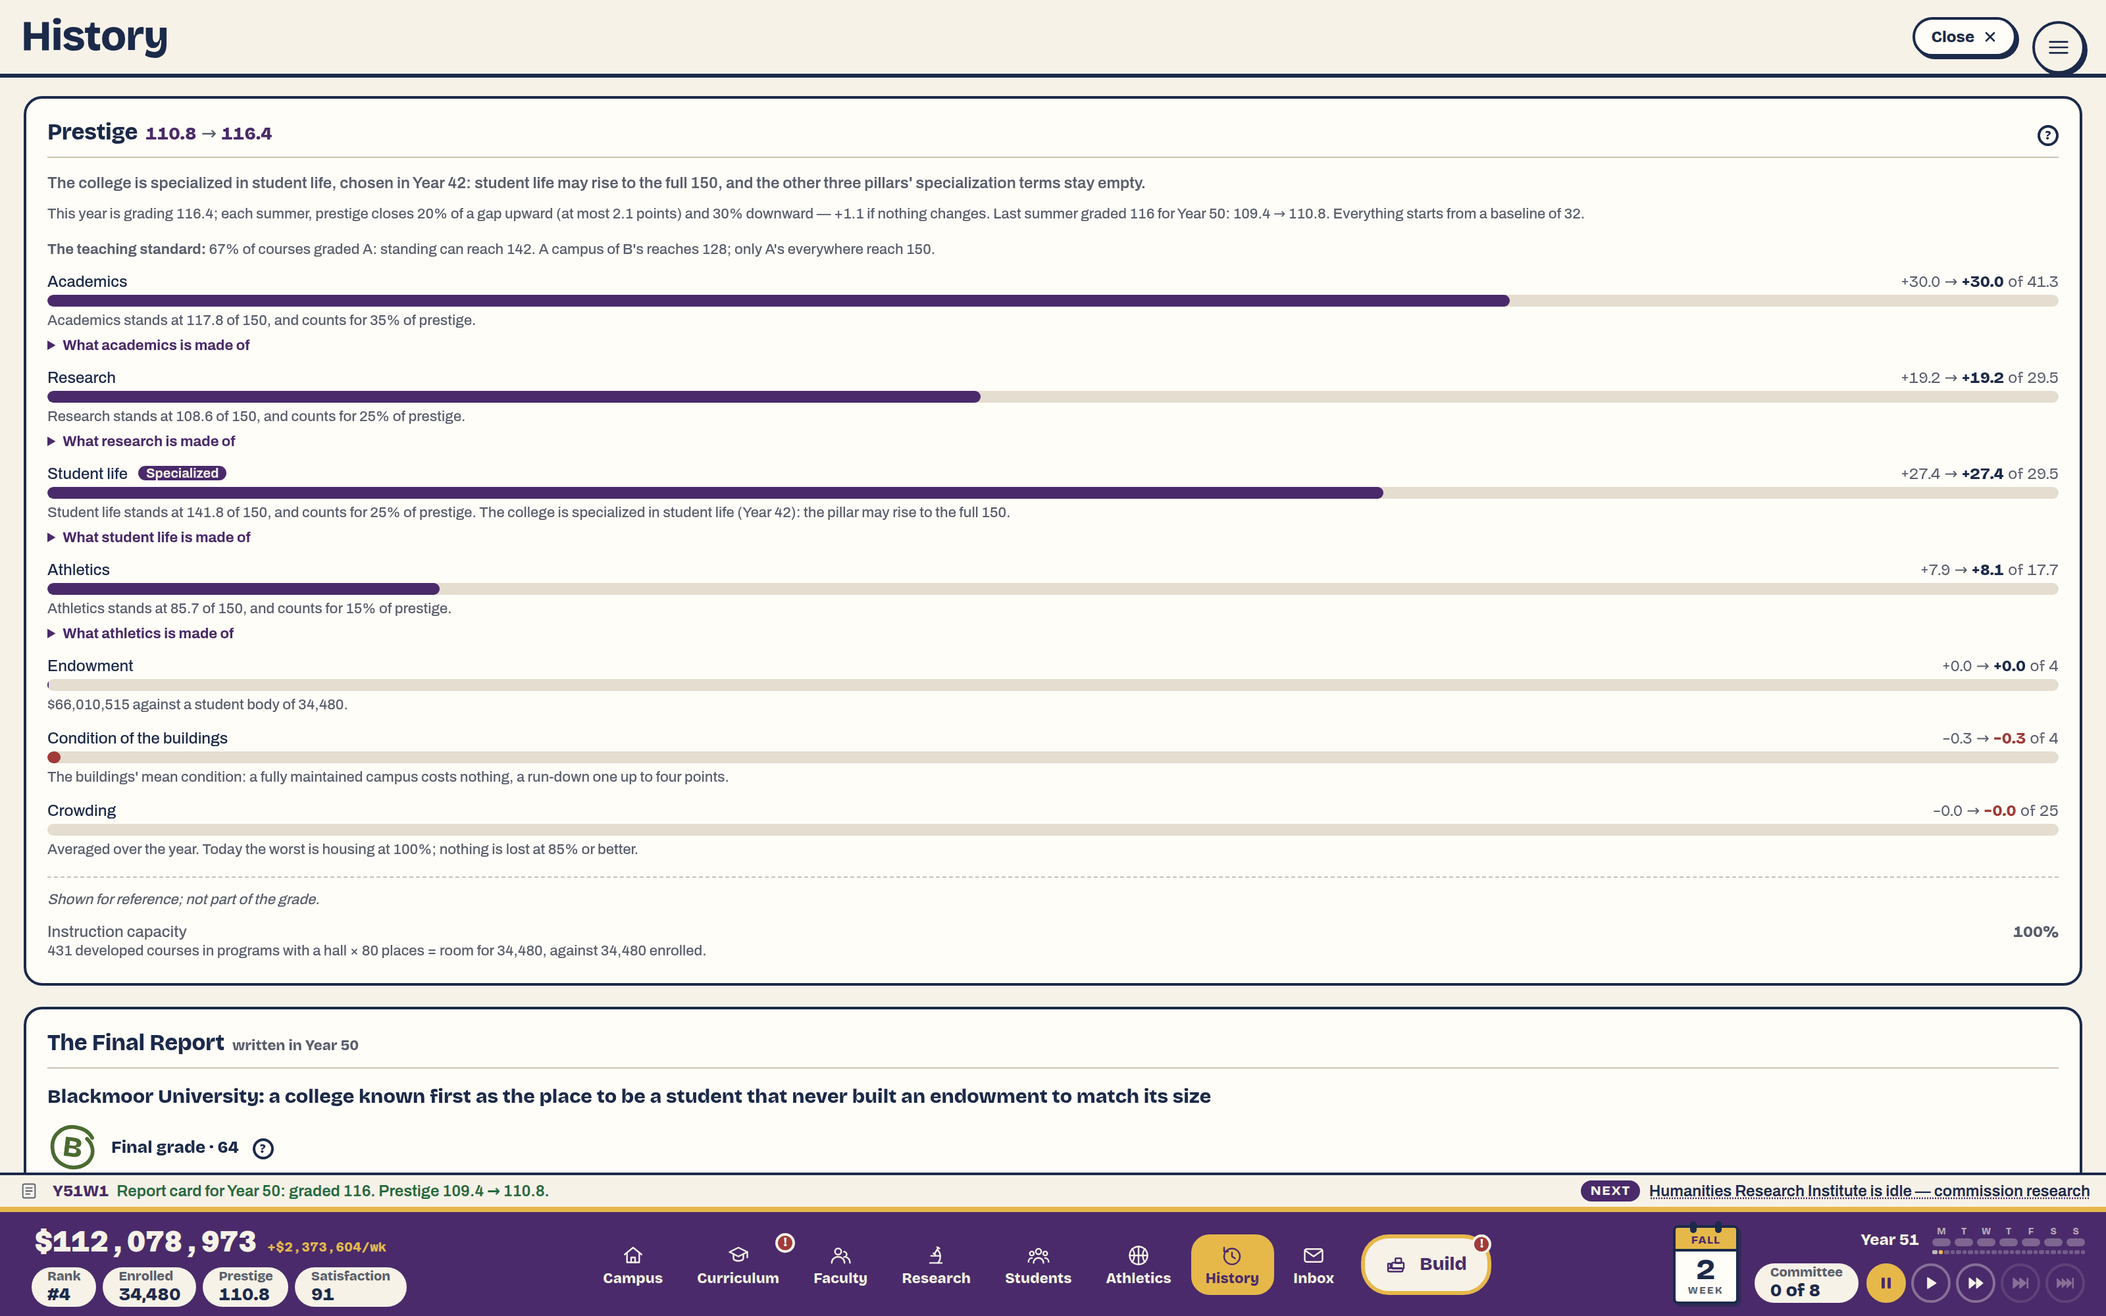
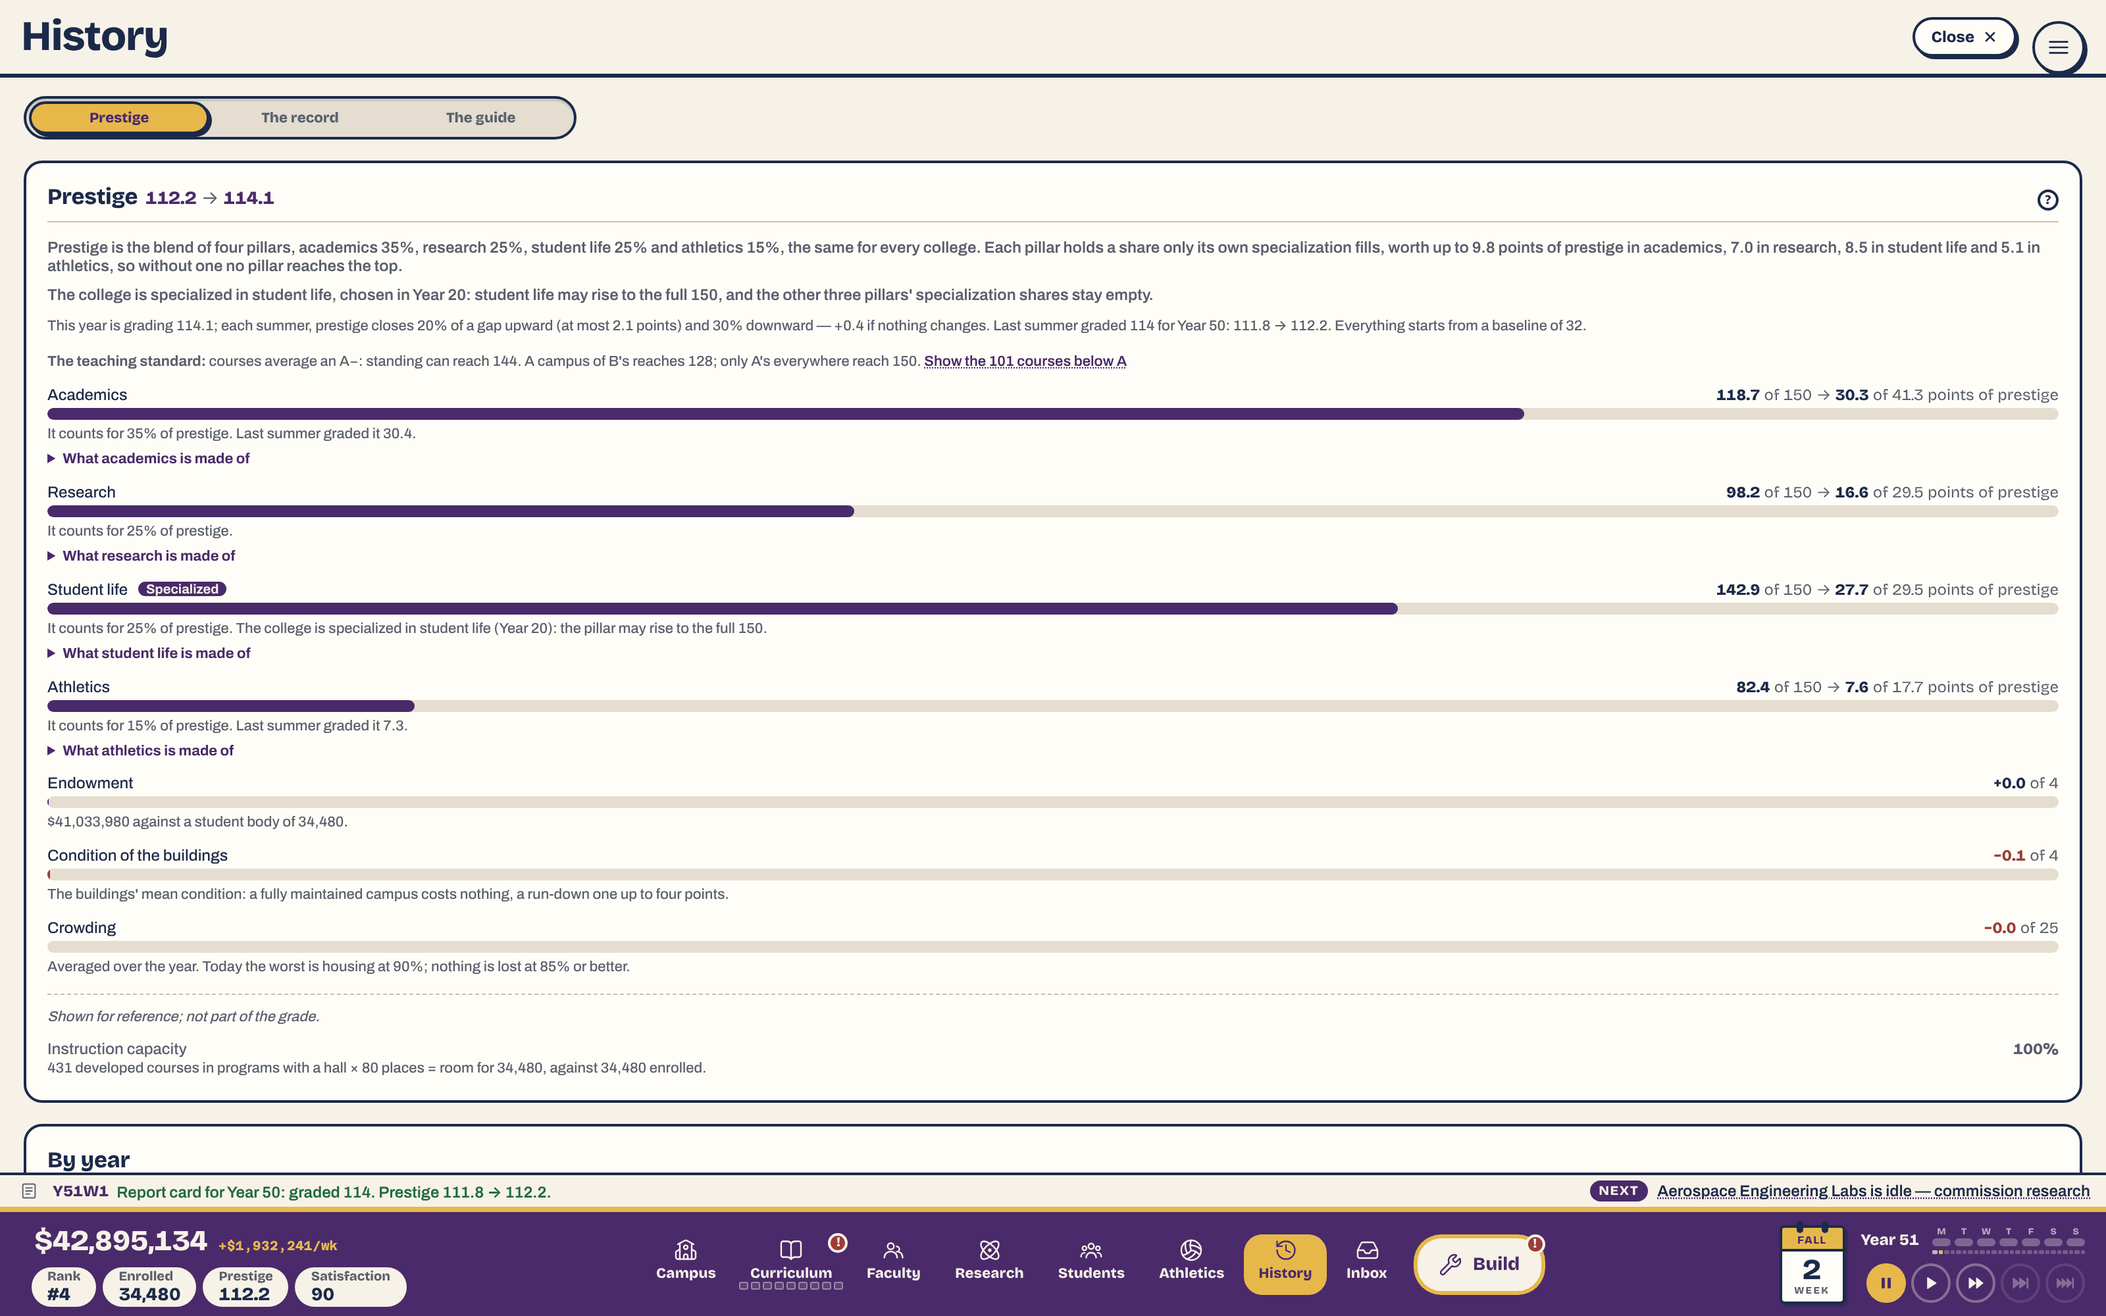
Plan 95Y: the shop window: the share image in the fall, and the README's words
Claude-Session: https://claude.ai/code/session_01VuKbfw2n3GL68fxhdeefV6

diff --git a/unischool/tools/scenario.ts b/unischool/tools/scenario.ts
@@ -16,6 +16,8 @@
 // Flags: --player <name> (or --strategy) --year N --modal <interrupt type>
 //        --from-year N (the stopping point counts from that year on)
 //        --seed N --vernacular <v> --colors <pair id> --name <school>
+//        --week N (stop in week N of year --year rather than at its end:
+//        the share image wants the fall, Plan 95Y)
 //        --clear-modal --build-all --list
 //
 // The output is a real save at the current SAVE_VERSION, built through the
@@ -35,7 +37,7 @@ import { CHARTER_INSTANCE, charterVars } from '../src/systems/events/charter';
 import { clearBoardLetters } from '../src/systems/finance/distress';
 
 // `--k v` and `--k=v` both work; other arguments are positional.
-const VALUE_FLAGS = ['player', 'strategy', 'year', 'from-year', 'modal', 'seed', 'vernacular', 'colors', 'name', 'out'];
+const VALUE_FLAGS = ['player', 'strategy', 'year', 'week', 'from-year', 'modal', 'seed', 'vernacular', 'colors', 'name', 'out'];
 const BOOL_FLAGS = ['list', 'clear-modal', 'build-all', 'help'];
 
 function parseArgs(argv: string[]): { flags: Record<string, string>; positional: string[] } {
@@ -112,7 +114,13 @@ const game = foundGame({ seed });
 // modal that recurs (the summer) can be caught late in a run (Plan 73).
 const fromYear = Number(flags['from-year'] ?? 0);
 const stop = recipe.stopWhen;
-playUntil(game, player, recipe.year, stop ? (st) => st.clock.year >= fromYear && stop(st) : () => false);
+// --week N: stop in week N of the year asked for, not at its end (Plan
+// 95Y: the share image is taken in the fall, when the leaves have turned).
+const week = flags.week ? Number(flags.week) : null;
+if (week !== null && (stop || !(week >= 1 && week <= 52))) throw new Error('--week takes 1 to 52, and no --modal');
+playUntil(game, player, recipe.year, stop
+  ? (st) => st.clock.year >= fromYear && stop(st)
+  : week !== null ? (st) => st.clock.year >= recipe.year && st.clock.week >= week : () => false);
 const state: GameState = game.s;
 // A recipe that breaks the school after the run (see Scenario.mutate).
 named?.mutate?.(state);

diff --git a/unischool/index.html b/unischool/index.html
@@ -16,7 +16,7 @@
     <meta property="og:image" content="/og-image.jpg" />
     <meta property="og:image:width" content="1200" />
     <meta property="og:image:height" content="630" />
-    <meta property="og:image:alt" content="An isometric campus of brick halls, dormitory towers, a quad with a fountain, and a stadium." />
+    <meta property="og:image:alt" content="An isometric campus in the fall: brick halls round a quad with a fountain, playing fields, and the farmland, town and hazy hills around it." />
     <meta name="twitter:card" content="summary_large_image" />
     <meta name="twitter:title" content="UniSchool — fifty years to build a university" />
     <meta name="twitter:description" content="Found a college and build it over fifty years, in one sitting, in the browser." />

diff --git a/README.md b/README.md
@@ -11,9 +11,8 @@ inspired by the long-term building and management loops of Cities: Skylines,
 RollerCoaster Tycoon, Civilization and Football Manager, with a particular
 focus on the feeling of watching an institution grow. A run is **fifty
 years**: the fiftieth summer files a final report — six graded axes and a name
-for what the school became — and seals it as the record, and the game goes on
-as a sandbox after it. There is no score; there is a legacy, and more than one
-way to earn a good one.
+for what the school became — and seals it as the record. There is no score;
+there is a legacy, and more than one way to earn a good one.
 
 **Status:** in active development ·
 **Stack:** React + TypeScript + Vite ·
@@ -34,12 +33,16 @@ way to earn a good one.
   living with the class those two decisions draw.
 - 🏛 **Develop student life** through clubs, Greek life, varsity athletics and
   the facilities they need.
-- 📈 **Build prestige** over decades through academic breadth, teaching
-  quality, student quality, research, campus life and financial resources —
-  and hold it, once the elite of the field start closing on the leader.
+- 📈 **Build prestige** over decades across four pillars — academics,
+  research, student life and athletics — and choose, once and for good, the
+  one the college will be the very best at.
 - 🏛 **Leave a legacy**: twenty ambitions to reach along the way, and at fifty
   years a final report that grades the run on six axes and names what the
   school became.
+- ⏩ **Play on after the Final Report**: the college keeps running into the
+  Epilogue, and every tenth summer adds a decade to the record.
+- 🧪 **Sandbox mode**, from the title screen: unlimited funds and instant
+  building, every building open, to lay out a campus without waiting.
 - ⚖ **Deal with the unexpected** — donor offers, faculty departures, facility
   failures, chapter scandals and student demands.
 
@@ -77,12 +80,25 @@ school's standing. A cash shortfall stalls expansion; it never ends the run.
 <p align="center"><em>The summer decision: set a price blind, see the pool it
 drew, then choose how much of it to admit.</em></p>
 
+## Four pillars, one specialization
+
+Prestige is a blend of four pillars: academics, research, student life and
+athletics. A school can be excellent at all four, but it can be the very best
+at only one. The first summer the college stands in the guide's top 30 — or,
+from Year 20, in the top 10 of any one pillar — the board offers it a single
+specialization: the faculty training program, the research park, the downtown
+and its festival, or the athletic performance complex. Each brings a building
+and a way of working only it has, and fills the share of its pillar that only
+it can fill: without one, no pillar reaches the top. The choice is kept for
+good, and the rivals make theirs too.
+
 ## Current state
 
 UniSchool is a playable, systems-first prototype. The core simulation is
 implemented: curriculum development and the milestone chain, campus
 construction on a tile map, faculty hiring and course assignment, annual
-admissions, finances, student life and athletics, research, prestige and
+admissions, finances, student life and athletics, research, prestige (its four
+pillars and the specialization) and
 rankings, decision events, graduate programs, and save/load.
 
 The current focus is presentation and player experience — the campus map,
@@ -112,12 +128,12 @@ different pair of school colours.
 
 | | |
 |---|---|
-| ![The Curriculum tab: the catalogue by school, a school opened to its programs, every course carrying its instructor and grade](docs/images/tab-curriculum.png) | ![The Faculty tab: payroll, the market, and each department's roster against its catalogue](docs/images/tab-faculty.png) |
-| **Curriculum** — the catalogue by school and program, each with who teaches it and the grade they earn; a finished school folds away. | **Faculty** — the roster and the market, department by department, against what the catalogue needs. |
+| ![The Curriculum tab: the catalogue by school, a school opened to its programs, every course carrying its instructor and grade](docs/images/tab-curriculum.png) | ![The Faculty tab: a figure row of course slots, then the faculty as a grid of faces, each with a grade for teaching and research, a quirk and the courses they carry](docs/images/tab-faculty.png) |
+| **Curriculum** — the catalogue by school and program, each with who teaches it and the grade they earn; a finished school folds away. | **Faculty** — the people: a grid of faces, each with a career, quirks and the courses they carry, under one row of figures; the market and the departments a switch away. |
 | ![The Research tab: every lab with its initiative, team, depth and progress](docs/images/tab-research.png) | ![The Students tab: what the guidebooks say, satisfaction by attribute, clubs and Greek chapters](docs/images/tab-students.png) |
 | **Research** — each lab's running initiative: the topic, the team, the depth and what it has produced. | **Students** — satisfaction by attribute and what serves it, the clubs, the chapters and the demands. |
-| ![The Athletics tab: the department at the side, and every varsity program as a card with its standing, its money and its staff](docs/images/tab-athletics.png) | ![The History tab: the three standings and every input that grades them](docs/images/tab-history.png) |
-| **Athletics** — the director, the subsidy and the gate at the side; every program a card with its rank in its sport and its staff. | **History** — the three standings with every input that grades them, and the legacy once sealed. |
+| ![The Athletics tab: the department at the side, and every varsity program folded to one line with its rank, its last season and its quality](docs/images/tab-athletics.png) | ![The History tab on its Prestige view: the four pillars, each on its own scale, and every input that grades prestige](docs/images/tab-history.png) |
+| **Athletics** — the director, the subsidy and the gate at the side; every program one line, its rank in its sport and its last season, opening to its staff and money. | **History** — three views: prestige with its four pillars and every input that grades them, the record and the legacy once sealed, and the guide. |
 | ![The Treasury tab: the weekly income statement, advancement and the balance](docs/images/tab-treasury.png) | |
 | **Treasury** — the weekly income statement, the endowment campaign and the balance sheet, reached through the funds figure. | |
 

diff --git a/docs/plans/95-second-review-worked-through.md b/docs/plans/95-second-review-worked-through.md
@@ -2359,6 +2359,55 @@ was not.
 - **Checks:** the share image at the declared size; the README's links and
   images resolve.
 
+**As implemented.** Pictures, words and tools; nothing under `src/`
+changed, so no sim.
+- **The share image**, 1200×630 as `index.html` declares, 132 KB: the
+  Completionist's campus in week 14 of Year 32, laid out, on `vite
+  preview` (the canvas map, as the shot reports), the chrome hidden, the
+  view two steps flatter so the farmland, the road and its town, the hills
+  and the haze ring the campus, and the trees in their autumn colours. The
+  `og:image:alt` says so now ("dormitory towers" and "a stadium" were not in
+  it).
+- **One command:** `CAMPUS_URL=… npm run share-image`
+  (`tools/shareImage.mjs`: scenario, layout, shot). Its recipe is in the
+  tools README beside the others'. The tools gained what it needed:
+  `scenario --week N` (stop in week N of the year asked), and `shot`'s
+  `--bare` (the time-lapse's chrome list), `--tilt=N`, JPEG out by
+  extension (`--quality`), and the map that drew named in its last line.
+  Drawn in a 1600×840 viewport at scale 0.75, so the campus is sharper than
+  a 1200-wide viewport draws it.
+- **The README:** the one clause at :15 is gone; *What you do* gains
+  **Play on after the Final Report** (into the Epilogue, a decade added each
+  tenth summer) and **Sandbox mode** (title screen: unlimited funds, instant
+  building, every building open). The prestige bullet names the four
+  pillars and the one choice, not the old six inputs. A new section, *Four
+  pillars, one specialization*, after the summer card, in the README's
+  register ("excellent at all four, … the very best at only one"), with
+  R's rule as `specializationOfferWhen()` says it: the guide's top 30, or
+  from Year 20 the top 10 of any one pillar. *Current state* lists the
+  pillars and the specialization.
+- **Captions:** Faculty, Athletics and History changed after the 4 October
+  pictures (95G, 95I, 95H), so those three pictures are taken again with
+  the tools README's own recipe (year-50 `--build-all` run, each tab in its
+  colours), and their captions and alt text describe them: Faculty's grid
+  of faces under its figure row, Athletics' one-line programs, History's
+  three views on Prestige. Curriculum, Research, Students and Treasury
+  still match their pictures (95M has not landed) and are unchanged.
+- **The store page:** the specialization's offer reads R's exact rule in
+  the long description and the features, and screenshot 5's note no longer
+  says `tab-history.png` shows the report's heading.
+- **Checks:** the share image is 1200×630 JPEG; every link and image in
+  the README resolves; `npm run check` passes.
+
+Deviations:
+- **Three README pictures retaken**, not only their captions checked: a
+  caption fitted to the 4 October pictures would describe screens the
+  game no longer has. Their toolbar now wears the new icons, so they differ
+  from the four untouched tabs' in that strip. They are quantized to 256
+  colours with Pillow (`pngquant` is not on this machine), 170–220 KB.
+- **Week 14, not 12:** both are in the window; at 14 the leaves have turned
+  further (`seasons.ts`: 0.8 against 0.6) and none are down.
+
 ### PR 95Z — The AI disclosure and the store page, drafted (B6-3, B6-5)
 
 Drafts for the owner to edit. Nothing is published.

diff --git a/docs/store/steam-page.md b/docs/store/steam-page.md
@@ -30,8 +30,9 @@ is 220:
 >
 > **Choose once.** Prestige is a blend of four pillars: academics,
 > research, student life and athletics. A school can be excellent at all
-> four. But once it stands high enough, overall or in one pillar, the board
-> offers a single specialization — the faculty training program, the
+> four. But the first summer it stands in the guide's top 30, or from Year
+> 20 in the top 10 of any one pillar, the board offers a single
+> specialization — the faculty training program, the
 > research park, the downtown and its festival, or the athletic performance
 > complex — and that choice is kept for good. Your rivals specialize too.
 >
@@ -61,8 +62,9 @@ is 220:
 ## Features
 
 - **Four pillars, one specialization.** Academics, research, student life
-  and athletics, and one permanent choice of the very best, offered once
-  the college stands high enough, overall or in one pillar.
+  and athletics, and one permanent choice of the very best, offered the
+  first summer the college stands in the guide's top 30, or from Year 20
+  in the top 10 of any one pillar.
 - **The summer decision.** Set the price, see the pool it drew, choose the
   class.
 - **More than 400 real courses** in 42 majors and seven schools, each
@@ -96,7 +98,7 @@ review gives:
 | 2 | Set the price before you see who applies. | The summer's Admissions card over the map, with the pool split by the kinds of student it draws and the class it makes. | [`summer-admissions.png`](../images/summer-admissions.png) is the card cropped to portrait. Take the full screen instead. |
 | 3 | Excellent at all four. The very best at one. | The specialization letter with its four cards side by side. | None. [`85d-choice.jpg`](../reviews/2026-10-pillars/85d-choice.jpg) shows the frame wanted, on an older build (its cards still read "Arrives in a later update"). Take it new. |
 | 4 | Every professor, a person. | The Faculty grid of faces, careers and quirks, late in a run. | [`tab-faculty.png`](../images/tab-faculty.png) at year 51 fits as it is. |
-| 5 | Fifty years, graded, and a name for what you built. | The Final Report: the six axes, the grade and the school's title. | None. [`tab-history.png`](../images/tab-history.png) shows only the report's heading, below the prestige; [`85d-final-report.jpg`](../reviews/2026-10-pillars/85d-final-report.jpg) shows the frame, on an older build. Take it new. |
+| 5 | Fifty years, graded, and a name for what you built. | The Final Report: the six axes, the grade and the school's title. | None. [`tab-history.png`](../images/tab-history.png) shows History's Prestige view; the report is on its *The record* view; [`85d-final-report.jpg`](../reviews/2026-10-pillars/85d-final-report.jpg) shows the frame, on an older build. Take it new. |
 
 Left out, as the review advises: the inbox and the Curriculum. They are the
 game's working screens, not its pictures. The Sandbox has no shot of its

diff --git a/unischool/tools/README.md b/unischool/tools/README.md
@@ -153,6 +153,28 @@ npm run shot -- node_modules/.tmp/summer.json docs/images/summer-admissions.png 
   --element=.modal --scale=2
 ```
 
+### The share image
+
+`public/og-image.jpg` is the picture a link to the game unfurls with, at the
+1200 by 630 that `index.html`'s `og:image` tags declare (Plan 95Y). It is one
+command, against the production build, since that is what a visitor loads:
+
+```sh
+npm run build && npx vite preview --port 4173 --strictPort   # in one shell
+CAMPUS_URL=http://localhost:4173/ npm run share-image       # writes public/og-image.jpg
+CAMPUS_URL=http://localhost:4173/ npm run share-image -- /tmp/og.jpg   # a look first
+```
+
+`shareImage.mjs` runs three of the tools above: `scenario` plays the
+Completionist to week 14 of year 32 (`--week`: the fall, the leaves turned
+and not yet down), `layout` re-sites its campus, and `shot` takes it with
+`--bare` (the chrome hidden, as the time-lapse does), `--tilt=-2` (two steps
+flatter, so the ring of land, the hills and the haze are in the frame) and
+`--zoom=-2`, in a 1600 by 840 viewport at `--scale=0.75`, which writes
+1200 by 630 with the campus drawn sharper than a 1200-wide viewport would.
+An out path ending `.jpg` writes a JPEG. The shot names the map that drew
+it; keep the picture only if it says the canvas.
+
 ### Phones and tablets
 
 `--phone` and `--tablet` give the driver a 390x844 or 820x1180 touch
